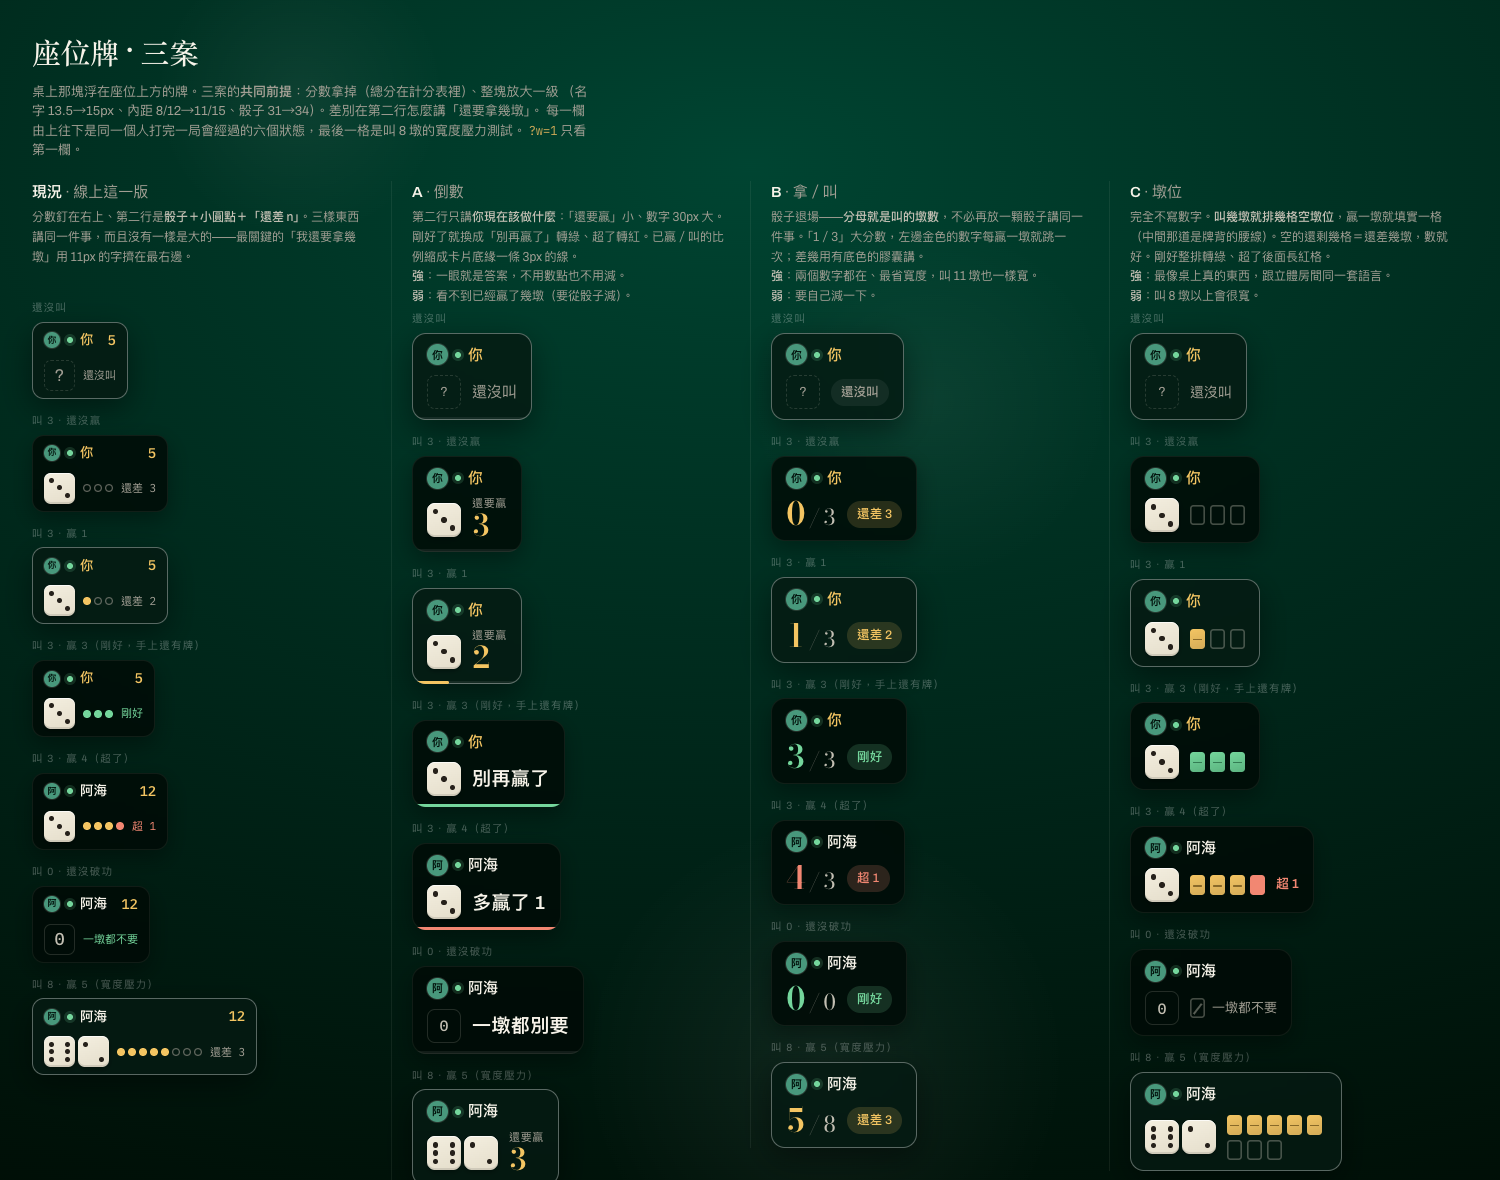
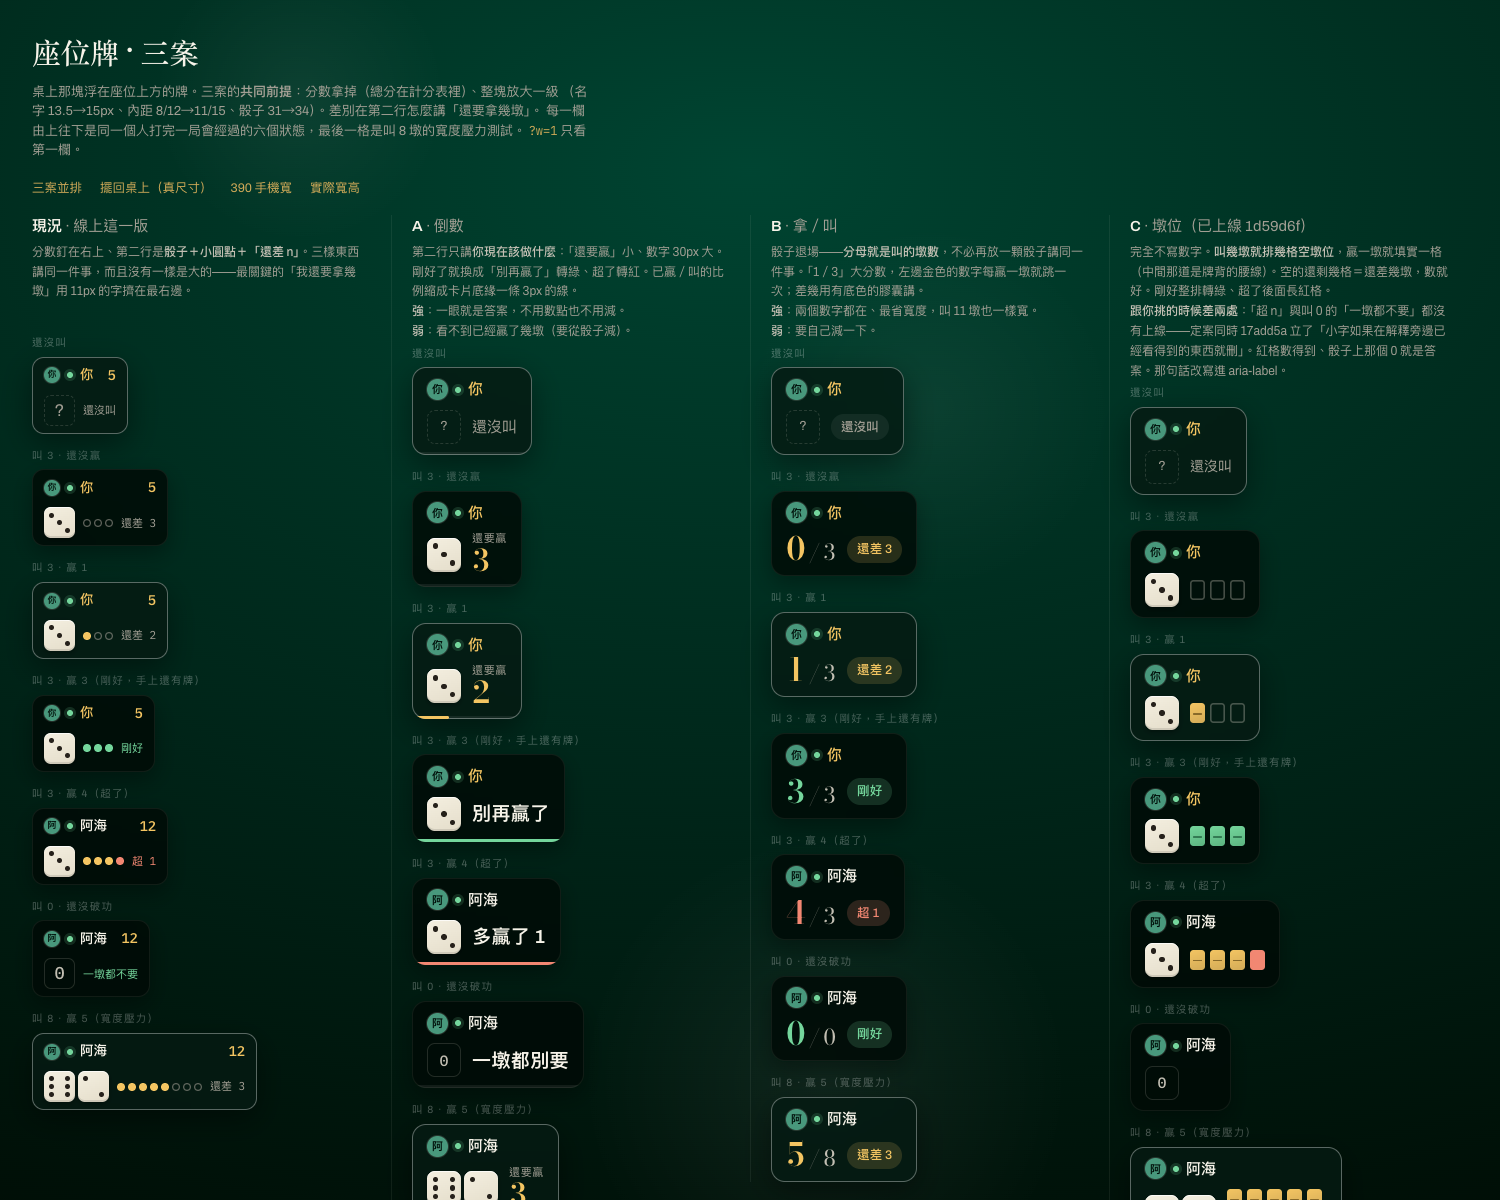
原型那份 C 同步成真的出貨的樣子
design/seat 的 C 還停在挑案時的版本：有「超 n」、叫 0 有一格劃掉的墩位配
「一墩都不要」。上線版兩處都沒有——定案同時 17add5a 立了「小字如果在解釋旁邊
已經看得到的東西就刪」。原型比出貨的好看，下次照著它做就會做錯，所以 C() 改成
跟 docs/index.html 的 bidPips() 一字不差，差在哪寫進欄位說明裡。

順手：四頁互相加了導覽連結（本來只開得到打開的那一頁）、README 補上怎麼看
（起 server，或 bundle.py 出一份自帶 css/js 的 dist/ 給 file:// 雙擊）。

diff --git a/design/seat/_seat.js b/design/seat/_seat.js
@@ -51,19 +51,22 @@ function B(s){
 }
 
 /* ── C · 墩位 ───────────────────────────────────────────── */
+/* 這一支跟 docs/index.html 的 bidPips() 一字不差地同步過：定案之後 17add5a 立了
+   「小字如果在解釋旁邊已經看得到的東西就刪」，所以原型本來有的「超 n」與叫 0 那句
+   「一墩都不要」都沒有上線。差在哪標在欄位說明裡，不要讓原型比出貨的好看。 */
 function C(s){
   if(s.bid === null)
     return wrap(s, "", '<div class="seat-row">' + die(null) + '<span class="c-wait">還沒叫</span></div>');
-  if(s.bid === 0 && s.got === 0)
-    return wrap(s, "", '<div class="seat-row">' + die(0) +
-      '<span class="c-none"><b></b>一墩都不要</span></div>');
   const over = Math.max(0, s.got - s.bid), d = s.bid - s.got;
+  if(!s.bid && !over)   /* 叫 0 沒有墩位可以排：骰子上那個 0 就是答案 */
+    return wrap(s, "", '<div class="seat-row">' + die(0) + '</div>');
   let h = "";
   for(let k = 0; k < s.bid; k++) h += '<u class="' + (k < s.got ? "got" : "") + '"></u>';
   for(let k = 0; k < over; k++) h += '<u class="over"></u>';
+  const said = over ? "，超了 " + over + " 墩" : d > 0 ? "，還差 " + d + " 墩" : "，剛好";
   return wrap(s, "", '<div class="seat-row">' + die(s.bid) +
-    '<span class="c-slots' + (d === 0 && !over ? " done" : "") + '">' + h + '</span>' +
-    (over ? '<span class="c-over">超 ' + over + '</span>' : "") + '</div>');
+    '<span class="c-slots' + (d === 0 && !over ? " done" : "") + '" role="img" aria-label="叫 ' +
+      s.bid + ' 墩，已贏 ' + s.got + ' 墩' + said + '">' + h + '</span></div>');
 }
 
 /* ── 現況 ───────────────────────────────────────────────── */

diff --git a/design/seat/index.html b/design/seat/index.html
@@ -18,6 +18,12 @@
      每一欄由上往下是同一個人打完一局會經過的六個狀態，最後一格是叫 8 墩的寬度壓力測試。
      <code>?w=1</code> 只看第一欄。</p>
 </header>
+<nav class="go">
+  <a href="index.html">三案並排</a>
+  <a href="table.html">擺回桌上（真尺寸）</a>
+  <a href="phone.html">390 手機寬</a>
+  <a href="measure.html">實際寬高</a>
+</nav>
 <div class="cols" id="cols"></div>
 
 <script src="_seat.js"></script>
@@ -47,10 +53,12 @@ const COLS = [
        "「1／3」大分數，左邊金色的數字每贏一墩就跳一次；差幾用有底色的膠囊講。<br>" +
        "<b>強</b>：兩個數字都在、最省寬度，叫 11 墩也一樣寬。<br><b>弱</b>：要自己減一下。",
    fn:B},
-  {k:"c", h:"C <em>· 墩位</em>",
+  {k:"c", h:"C <em>· 墩位（已上線 1d59d6f）</em>",
    why:"完全不寫數字。<b>叫幾墩就排幾格空墩位</b>，贏一墩就填實一格（中間那道是牌背的腰線）。" +
        "空的還剩幾格＝還差幾墩，數就好。剛好整排轉綠、超了後面長紅格。<br>" +
-       "<b>強</b>：最像桌上真的東西，跟立體房間同一套語言。<br><b>弱</b>：叫 8 墩以上會很寬。",
+       "<b>跟你挑的時候差兩處</b>：「超 n」與叫 0 的「一墩都不要」都沒有上線——" +
+       "定案同時 17add5a 立了「小字如果在解釋旁邊已經看得到的東西就刪」。" +
+       "紅格數得到、骰子上那個 0 就是答案。那句話改寫進 aria-label。",
    fn:C},
 ];
 const only = new URLSearchParams(location.search).get("w");

diff --git a/design/seat/phone.html b/design/seat/phone.html
@@ -30,6 +30,12 @@ iframe{width:390px;height:700px;border:1px solid oklch(.90 .02 92 / .12);border-
      <code>@media (max-width:700px)</code>），左右兩個人的位置也往中間收。
      這一頁要看的是：四塊牌會不會疊在一起、會不會被切掉。</p>
 </header>
+<nav class="go">
+  <a href="index.html">三案並排</a>
+  <a href="table.html">擺回桌上（真尺寸）</a>
+  <a href="phone.html">390 手機寬</a>
+  <a href="measure.html">實際寬高</a>
+</nav>
 <div class="row">
   <figure><figcaption><b>現況</b> <span>· 線上這一版</span></figcaption><iframe src="table.html?k=現況"></iframe></figure>
   <figure><figcaption><b>A</b> <span>· 倒數</span></figcaption><iframe src="table.html?k=a"></iframe></figure>

diff --git a/design/seat/measure.html b/design/seat/measure.html
@@ -26,6 +26,12 @@ p{margin:0 0 14px;color:var(--ink-3);font-size:12px}
 <h1>座位牌的實際寬高</h1>
 <p>單位 px。「叫 8」是最寬的狀態（八格墩位／八顆點／兩顆骰子）。手機那一欄套 <code>@media (max-width:700px)</code> 的縮法。
    一支 390 寬的手機，四個座位牌要塞在同一張桌子上——超過 <b>170</b> 就會蓋到中間的牌。</p>
+<nav class="go">
+  <a href="index.html">三案並排</a>
+  <a href="table.html">擺回桌上（真尺寸）</a>
+  <a href="phone.html">390 手機寬</a>
+  <a href="measure.html">實際寬高</a>
+</nav>
 <div id="pit"></div><div id="out"></div>
 <script src="_seat.js"></script>
 <script>

diff --git a/design/seat/table.html b/design/seat/table.html
@@ -69,6 +69,12 @@ body.one .hand{bottom:-34px}
   <p>同一局、同一個時間點：你叫 3 拿到 1、左手叫 8 拿到 5、對面還沒叫、右手叫 0。
      牌與座位牌都是真尺寸（1440 寬螢幕上看到的大小）。左上是現況，其餘三案的牌都大了一級。</p>
 </header>
+<nav class="go">
+  <a href="index.html">三案並排</a>
+  <a href="table.html">擺回桌上（真尺寸）</a>
+  <a href="phone.html">390 手機寬</a>
+  <a href="measure.html">實際寬高</a>
+</nav>
 <div class="grid" id="grid"></div>
 <script src="_seat.js"></script>
 <script>

diff --git a/design/seat/_page.css b/design/seat/_page.css
@@ -41,3 +41,8 @@ header code{font-family:"IBM Plex Mono",monospace;font-size:12px;color:var(--bra
 .st > i{display:block;font-style:normal;font-size:10.5px;letter-spacing:.12em;
   text-transform:uppercase;color:oklch(1 0 0/.30);margin-bottom:6px}
 
+
+/* 四頁互相連得到的一條細導覽 */
+nav.go{display:flex;gap:18px;flex-wrap:wrap;padding:4px 32px 10px;font-size:12.5px}
+nav.go a{color:var(--brass-2);text-decoration:none;border-bottom:1px solid transparent;padding-bottom:1px}
+nav.go a:hover{border-bottom-color:var(--brass-2)}

diff --git a/design/seat/README.md b/design/seat/README.md
@@ -16,9 +16,10 @@ Francis 說「分數可以拿掉」「需要拿幾墩的設計再給我幾個」
 
 - `index.html` — 三案 ＋ 現況並排，每一欄由上往下是一個人打完一局會經過的六個狀態
   （還沒叫 → 叫 3 → 贏 1 → 剛好 → 超了 → 叫 0），最後一格是叫 8 墩的寬度壓力測試。
+  **C 那一欄跟著 `docs/index.html` 的 `bidPips()` 同步**——原型比出貨的好看是會騙人的。
 - `table.html` — 同樣三案 ＋ 現況，擺回桌上。牌與座位牌都是 1440 寬螢幕上的**真尺寸**，
   這一頁只回答一個問題：夠不夠看得清楚。
-- `_seat.css` / `_seat.js` — 兩頁共用的座位牌畫法。色票與骰子抄 `docs/index.html`
+- `_seat.css` / `_seat.js` — 四頁共用的座位牌畫法。`C()` 與上線那一份一字不差。色票與骰子抄 `docs/index.html`
   （`--felt` 走 `paintTable()` 的 ♠ ＋深局版本，跟打到一半時的桌色一樣）。
 
 ## 三案
@@ -84,3 +85,14 @@ headless 的視窗夾在 500px 壓不下去）。
 
 **還沒解的一條**：390 手機寬時，左右兩個人如果叫到 8 墩以上，那塊牌會蓋到中間那一墩。
 現況也會（143px），C 是 158px，比原本多 15px。真正的解法是窄螢幕的座位牌擺位，不是再把牌縮小。
+
+## 怎麼看
+
+    cd design/seat && python3 -m http.server 8771
+    open http://127.0.0.1:8771/index.html      # 四頁互相連得到
+
+`file://` 直接點開會被同源政策擋住（css/js 是外部檔），所以另外有一份自帶一切的：
+
+    python3 bundle.py     # → dist/index.html、dist/table.html、dist/phone.html，雙擊就開
+
+`dist/` 是產生出來的，沒有進版本管理（`.gitignore`）。
